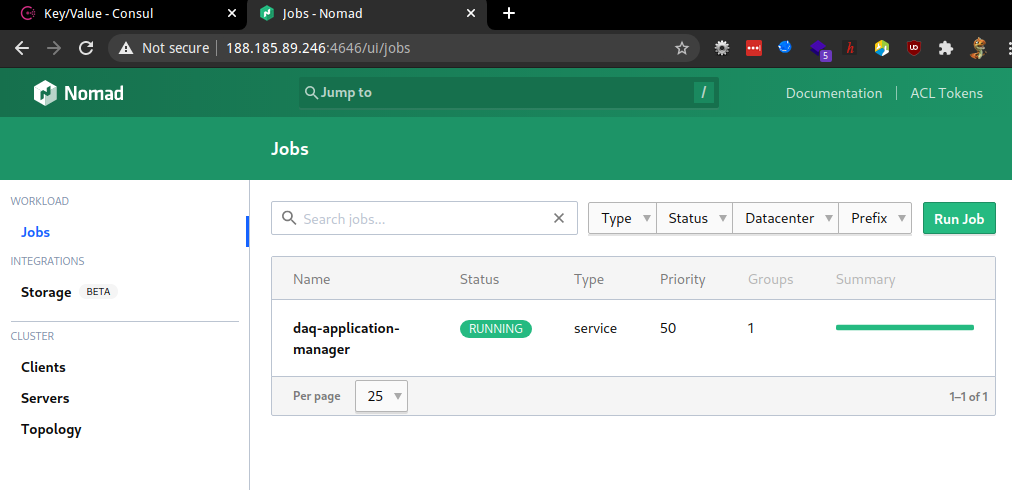
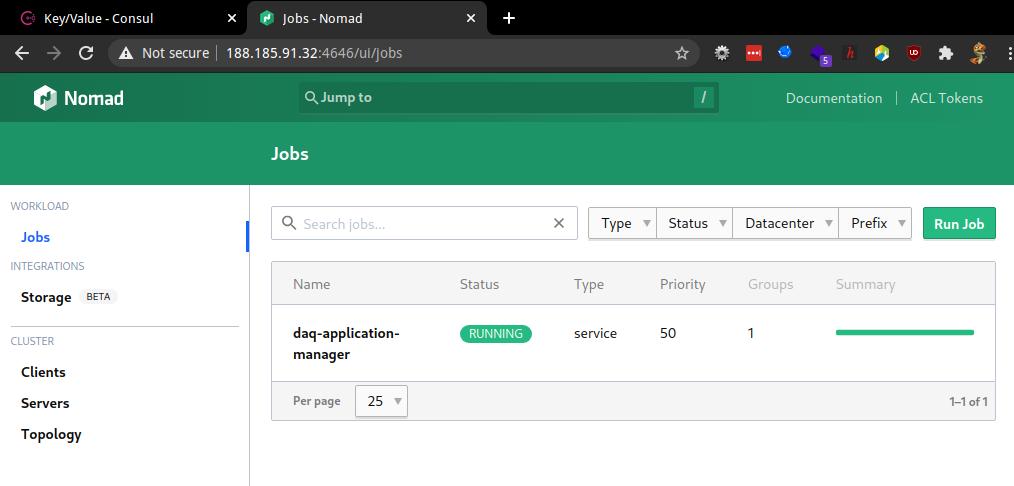
daq code building is not done by RC

diff --git a/docs/lxplus-demo/README.md b/docs/lxplus-demo/README.md
@@ -21,17 +21,32 @@ export PATH="..."
 ```
 
 You just received an `export` command to copy paste, please do.
+```bash
+$ export ...
+```
+
+Do NOT forget to be nice and stop RC after you're done:
+```
+$ hacks/stopInMem.sh
+```
 
 You can now access both Consul and Nomad on ports 8500 and 4646 respectively.
 (provided you have a tunnel setup using `ssh -D 0.0.0.0:6666 lxplus` + foxyproxy or equivalent)
 ```bash
 $ ip addr
 ...
-    inet 188.185.89.246/23
+    inet 188.185.91.32/23
 ...
 ```
 ![consul](screenshots/consul_fresh.png)  
 ![nomad](screenshots/nomad_fresh.png)
+
+## Build DAQ code
+
+Before we can run listrev, we need to build it.
+```bash
+docs/lxplus-demo/build-daq.sh
+```
 
 ## Run DAQ Applications
 
@@ -39,11 +54,14 @@ $ ip addr
 $ run-control apply docs/lxplus-demo/configs/*.json
 committing consul transaction... OK
 running nomad job daq-process-a... OK
+running nomad job daq-process-b... OK
 $ run-control get all
 KIND		NAME
 daq-application	daq-app-a
+daq-application	daq-app-b
 nomad-job	daq-application-manager
 nomad-job	daq-process-a
+nomad-job	daq-process-b
 daq-config	my-first-config
 ```
 
@@ -71,6 +89,8 @@ $ run-control get daq-application daq-app-a
 }
 ```
 
+Notice that autonomous mode is disabled (`"enabled": false,`).
+
 ### viewing logs
 
 You can traverse the nomad web interface to view stdout and stderr logs (and scheduler logs if you're in hell).
@@ -79,18 +99,157 @@ You can traverse the nomad web interface to view stdout and stderr logs (and sch
 
 ## Enabling autonomous mode
 
+In autonomous mode, Run Control will send commands to DAQ applications on your behalf.
+
+```bash
+$ run-control daq autonomous true daq-app-a daq-app-b
+enabling autonomous mode for daq application daq-app-a... committing consul transaction... OK
+OK
+enabling autonomous mode for daq application daq-app-b... committing consul transaction... OK
+OK
+$ run-control get daq-application daq-app-a
+{
+  "meta": {
+    "kind": "daq-application",
+    "name": "daq-app-a"
+  },
+  "spec": {
+    "configkey": "/daq-configs/my-first-config",
+    "daq-service": "daq-process-a",
+    "desired-state": "running",
+    "enabled": true,
+    "run-number": "123"
+  },
+  "status": {
+    "commandsucceeded": true,
+    "commandtimedout": false,
+    "configkeyexists": true,
+    "configrendered": true,
+    "daqserviceexists": true,
+    "lastcommandsent": "start"
+  }
+}
+```
+
+In the logs of the daq-applications, you can confirm this:
+```
+2021-Mar-03 10:45:37,978 LOG [dunedaq::restcmd::RestEndpoint::handleResponseCommand(...) at /tmp/listrev-rc-demo/listrev-app/sourcecode/restcmd/src/RestEndpoint.cpp:100] Sending POST request to 127.0.0.1:38187/response
+2021-Mar-03 10:45:37,986 LOG [dunedaq::restcmd::RestEndpoint::handleResponseCommand(...) at /tmp/listrev-rc-demo/listrev-app/sourcecode/restcmd/src/RestEndpoint.cpp:107] Response code = OK
+2021-Mar-03 10:45:38,083 LOG [dunedaq::restcmd::RestEndpoint::handleResponseCommand(...) at /tmp/listrev-rc-demo/listrev-app/sourcecode/restcmd/src/RestEndpoint.cpp:100] Sending POST request to 127.0.0.1:33440/response
+2021-Mar-03 10:45:38,085 LOG [dunedaq::restcmd::RestEndpoint::handleResponseCommand(...) at /tmp/listrev-rc-demo/listrev-app/sourcecode/restcmd/src/RestEndpoint.cpp:107] Response code = OK
+2021-Mar-03 10:45:38,216 LOG [dunedaq::restcmd::RestEndpoint::handleResponseCommand(...) at /tmp/listrev-rc-demo/listrev-app/sourcecode/restcmd/src/RestEndpoint.cpp:100] Sending POST request to 127.0.0.1:56308/response
+2021-Mar-03 10:45:38,225 LOG [dunedaq::restcmd::RestEndpoint::handleResponseCommand(...) at /tmp/listrev-rc-demo/listrev-app/sourcecode/restcmd/src/RestEndpoint.cpp:107] Response code = OK
+```
+
+And in the daq application manager logs:
+```
+INFO:waitForUpdate:raft update received
+INFO:main:received new change 2510: ['daq-applications/daq-app-a', 'daq-applications/daq-app-b']
+INFO:manage:managing daq-applications/daq-app-a
+INFO:manage:setting up response listener on 38187
+INFO:manage:sending command init to 127.0.0.1:30232
+INFO:manage:received response 'OK' for command 'init'
+```
+
 ### Disabling autonomous mode
+
+We'll be sending commands manually next, so let's disable autonomous mode.
+
+```bash
+$ run-control daq autonomous false daq-app-a daq-app-b
+disabling autonomous mode for daq application daq-app-a... committing consul transaction... OK
+OK
+disabling autonomous mode for daq application daq-app-b... committing consul transaction... OK
+OK
+```
 
 ## Sending commands
 
-If you see an error message `connection refused`, it probably means daq-application is still building/starting. Check the logs.
-
 ```bash
-$ run-control daq command init daq-app-a
+$ run-control daq command init daq-app-a daq-app-b
+fetching daq application... OK
 fetching daq application... OK
 querying location of daq application... OK
+querying location of daq application... OK
+generating config... OK
 generating config... OK
 setting up return path... OK
-sending init command to daq-app-a... 11:20PM ERR command failed error="Post \"http://127.0.0.1:21828/command\": dial tcp 127.0.0.1:21828: connect: connection refused" name=daq-app-a pkg=main
+setting up return path... OK
+sending init command to daq-app-a... OK
+sending init command to daq-app-b... OK
+waiting for return path... OK
+waiting for return path... OK
+```
+
+You can also enable debug logging to get more verbose info
+```bash
+$ run-control -l debug daq command conf daq-app-a
+10:02AM DBG preparing to send command command=conf name=daq-app-a pkg=main
+fetching daq application... 10:02AM DBG fetching key id=daq-app-a kind=daq-application pkg=internal url=http://localhost:8500/v1/kv/daq-applications/daq-app-a?raw=
+OK
+querying location of daq application... OK
+generating config... 10:02AM DBG fetching key id=my-first-config kind=daq-config pkg=internal url=http://localhost:8500/v1/kv/daq-configs/my-first-config?raw=
+OK
+setting up return path... 10:02AM DBG opened return path pkg=daq port=45099
+OK
+sending conf command to daq-app-a... OK
+waiting for return path... 10:02AM DBG received request method=POST pkg=daq url=/response
+10:02AM DBG response received body="{\"data\":{\"ans-host\":\"127.0.0.1\",\"ans-port\":\"45099\",\"cmdid\":\"conf\"},\"result\":\"OK\",\"success\":true}" pkg=daq result=OK
+10:02AM DBG openReturnPath() returned daqResponse=OK pkg=daq
+OK
+
+$ run-control -l debug daq command conf daq-app-b
+10:02AM DBG preparing to send command command=conf name=daq-app-b pkg=main
+fetching daq application... 10:02AM DBG fetching key id=daq-app-b kind=daq-application pkg=internal url=http://localhost:8500/v1/kv/daq-applications/daq-app-b?raw=
+OK
+querying location of daq application... OK
+generating config... 10:02AM DBG fetching key id=my-first-config kind=daq-config pkg=internal url=http://localhost:8500/v1/kv/daq-configs/my-first-config?raw=
+OK
+setting up return path... 10:02AM DBG opened return path pkg=daq port=41951
+OK
+sending conf command to daq-app-b... OK
+waiting for return path... 10:02AM DBG received request method=POST pkg=daq url=/response
+10:02AM DBG response received body="{\"data\":{\"ans-host\":\"127.0.0.1\",\"ans-port\":\"41951\",\"cmdid\":\"conf\"},\"result\":\"OK\",\"success\":true}" pkg=daq result=OK
+10:02AM DBG openReturnPath() returned daqResponse=OK pkg=daq
+OK
+
+$ run-control -l debug daq command start daq-app-a daq-app-b
+10:02AM DBG preparing to send command command=start name=daq-app-b pkg=main
+fetching daq application... 10:02AM DBG fetching key id=daq-app-b kind=daq-application pkg=internal url=http://localhost:8500/v1/kv/daq-applications/daq-app-b?raw=
+10:02AM DBG preparing to send command command=start name=daq-app-a pkg=main
+fetching daq application... 10:02AM DBG fetching key id=daq-app-a kind=daq-application pkg=internal url=http://localhost:8500/v1/kv/daq-applications/daq-app-a?raw=
+OK
+querying location of daq application... OK
+querying location of daq application... OK
+generating config... 10:02AM DBG fetching key id=my-first-config kind=daq-config pkg=internal url=http://localhost:8500/v1/kv/daq-configs/my-first-config?raw=
+OK
+generating config... 10:02AM DBG fetching key id=my-first-config kind=daq-config pkg=internal url=http://localhost:8500/v1/kv/daq-configs/my-first-config?raw=
+OK
+setting up return path... 10:02AM DBG opened return path pkg=daq port=35195
+OK
+sending start command to daq-app-a... OK
+setting up return path... 10:02AM DBG opened return path pkg=daq port=44395
+OK
+sending start command to daq-app-b... OK
+waiting for return path... OK
+waiting for return path... 10:02AM DBG received request method=POST pkg=daq url=/response
+10:02AM DBG received request method=POST pkg=daq url=/response
+10:02AM DBG response received body="{\"data\":{\"ans-host\":\"127.0.0.1\",\"ans-port\":\"35195\",\"cmdid\":\"start\"},\"result\":\"Command start was not executed correctly by: lr, lrv, rdlg, \",\"success\":false}" pkg=daq result="Command start was not executed correctly by: lr, lrv, rdlg, "
+10:02AM DBG response received body="{\"data\":{\"ans-host\":\"127.0.0.1\",\"ans-port\":\"44395\",\"cmdid\":\"start\"},\"result\":\"Command start was not executed correctly by: lr, lrv, rdlg, \",\"success\":false}" pkg=daq result="Command start was not executed correctly by: lr, lrv, rdlg, "
+10:02AM DBG openReturnPath() returned daqResponse="Command start was not executed correctly by: lr, lrv, rdlg, " pkg=daq
+10:02AM DBG openReturnPath() returned daqResponse="Command start was not executed correctly by: lr, lrv, rdlg, " pkg=daq
+FAIL
+FAIL
+10:02AM DBG daqresponse daqresponse="Command start was not executed correctly by: lr, lrv, rdlg, " pkg=daq
+10:02AM ERR command failed error="Command start was not executed correctly by: lr, lrv, rdlg, " name=daq-app-b pkg=main
+10:02AM DBG daqresponse daqresponse="Command start was not executed correctly by: lr, lrv, rdlg, " pkg=daq
+10:02AM ERR command failed error="Command start was not executed correctly by: lr, lrv, rdlg, " name=daq-app-a pkg=main
 command failed, not all DAQ commands succeeded
 ```
+
+## Stopping 
+
+```
+$ hacks/stopInMem.sh
+```
+This will stop RC and all applications that it was running.
